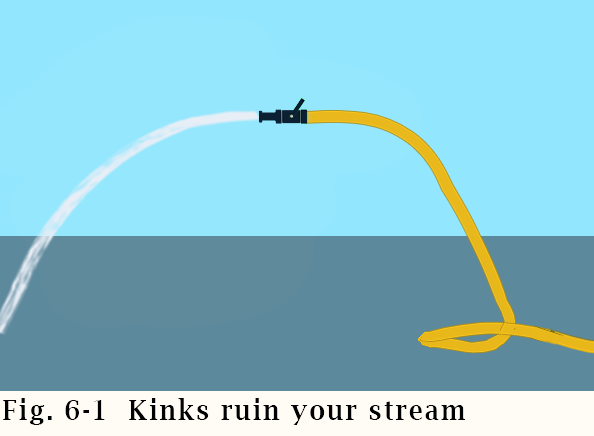
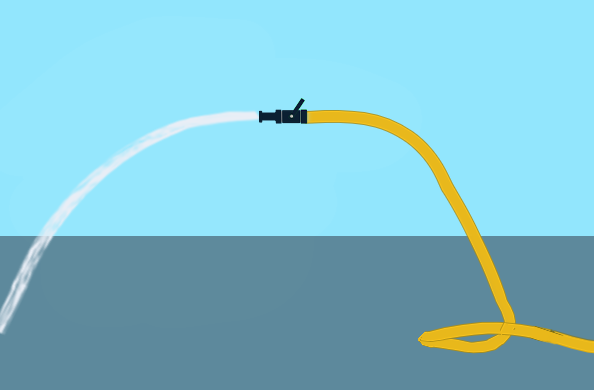
In nozzles, moved Kink.png from tooltip to always visible.  Started standardizing caption format outside of graphics.  Subtracted some ink from NozzleFlowRanges.png

Changed region(s): [[0.0, 0.2154, 1.0, 1.0]]

diff --git a/AutomaticNozzles.html b/AutomaticNozzles.html
@@ -47,7 +47,7 @@
   </h1>
 	
  <div id="DocSubtitle"><span style="font-size:9px;line-height:80%">By Bob Bourgeois</span><br>
-	<span style="font-size:.5rem;line-height:.2">1st draft 22Jul21&nbsp;&nbsp;&nbsp;&nbsp; Latest rev 10Apr23<br>Feedback/Qs roomfiresetc@gmail.com</span></div> 
+	<span style="font-size:.5rem;line-height:.2">1st draft 22Jul21&nbsp;&nbsp;&nbsp;&nbsp; Latest rev 5Jul23<br>Feedback/Qs roomfiresetc@gmail.com</span></div> 
 	
 	
 </header>
@@ -68,8 +68,10 @@
 	
 	&nbsp; Automatics are also the easiest to use (if you don’t overthink things).
 </p>
-	
-<p><img src="images/NozzleFlowRanges.png"  alt="" style="margin-left:inherit;width:50%;Padding-right:2em;Float:left"/></p>
+<p><figure style = "width:46%;margin-left:inherit;padding-left:9%;float:left;"><img src="images/NozzleFlowRanges.png"  alt="Graph of 8 nozzle ranges shows that fixed-flow nozzles have smaller operating ranges." style="width:100%;padding-right:03.2%;float:left;"/><figcaption style = "float:left;font-size:.8em"> Fig. 3.1&nbsp;  Eight nozzle operating ranges</figcaption></figure></p>	
+
+    
+
 	
 	
 	
@@ -77,15 +79,23 @@
 	
 <p>The bottom of a nozzle's range is the minimum flow needed to produce a 
 		<span class = "tooltip">usable stream.<span class="tooltipcontent"><span class="tooltiptext" >A usable stream is one that has enough reach to be useful but not too much reaction force.</span></span></span>
-	&nbsp;  If a kink reduces the flow below the minimum, the line may be 
+	&nbsp;  If a kink reduces the flow below the minimum, the line may be useless.
+</p>     
+    
+<p><figure style="margin-left:inherit;padding-left:2%;width:21%;Margin-top:.1em;Float:right"/><img src="images/Kink.png"  alt="Stream from a nozzle that is useless because of a kink in the hose" style="width:100%;Padding-right:1.6em;"><figcaption style = "font-size:.8em;">Fig. 3-2&nbsp;  Kinks ruin your stream</figcaption></figure></p>	
 	
-		<span class = "tooltip">useless.<span class="tooltipcontent"><span class="tooltipimage"><img src="images/Kink.png" width="245" height="180" alt="Kinks ruin your stream"/></span></span></span>
-	
-	&nbsp;  Your safety margin against kinks is the gpm difference between the bottom of the nozzle's range and your target flow.&nbsp;  Fixed-flow nozzles have much smaller margins.
+
+<p> Your safety margin against kinks is the gpm difference between the bottom of the nozzle's range and your target flow.&nbsp;  Fixed-flow nozzles have much smaller margins.
 </p>
-	
+
+    
 <p>Headroom at the top of the range means that on those rare occasions when you need more water or more reach, you simply flow more water.</p>	
+
+    
 	
+    <p></p>
+
+    
 <p>This confident flexibility can ease the GPM anxiety that causes many teams to always flow big water.&nbsp; Using 90-100 GPM to attack a 16' x 16' x 8' room gives you a generous safety margin.&nbsp; Double the room size and you still have a good margin.&nbsp; If you’re routinely flowing much more than 100 GPM for residential room fires, you might want to downthink.</p>
 
 <p>In addition to easing water supply needs (and water supply anxiety), a lower flow rate can cut FF exertion, cut air use, and help with nozzle placement.&nbsp; Many good stops have been made by nozzles held in awkward orientations (e.g. 

diff --git a/GPM.html b/GPM.html
@@ -76,7 +76,7 @@
 
 <p>The main gpm safety margins are for <strong>knockdown</strong> and <strong>flow reduction</strong>.&nbsp; You want to be okay if knocking the fire somehow requires more water than expected.&nbsp; You also want to be okay if a kink or some other mishap reduces your flow.</p>
 	
-<p><img src="images/Kink.png"  alt="Stream from a nozzle that is useless because of a kink in the hose" style="margin-left:inherit;width:28%;Padding-right:1.6em;Float:left"/></p>		
+<p><figure style="margin-left:inherit;padding-left:9%;margin-top:.1em;margin-right:1.5em; width:24%;float:left;"><img src="images/Kink.png"  alt="Stream from a nozzle that is useless because of a kink in the hose" style="width:100%;float:left;"/><figcaption style="font-size:.8em;">Fig. 6-1&nbsp;  Kinks ruin your stream</figcaption></figure></p>		
 	
 <p>The reference point for the flow-reduction margin (RP-kink) is the smallest flow that will provide a 
 			<span class = "tooltip">usable stream.<span class="tooltipcontent"><span class="tooltiptext" >A usable stream is one that has enough reach to be useful but not too much reaction force.</span></span></span>
@@ -192,7 +192,7 @@
 	
 </section>
 <section class="Wisdom">
-	<p>Our fear often enables the things we fear.</p>	
+	<p>Fear often enables the things we fear.</p>	
 	<p>Lots of jargon does not mean lots of understanding.&nbsp; More water does not mean more effective.</p>
 	
 </section>

diff --git a/FlameLength.html b/FlameLength.html
@@ -60,9 +60,9 @@
 	
 <p>Read this indication with smoke, wind, building layout,  and other clues.&nbsp; Look for patterns and changes.&nbsp; Ask questions.&nbsp; Where are the pockets of AF?&nbsp; Is it building up?&nbsp; Spreading?&nbsp; Can it be vented?&nbsp; Is the fire attack stopping the production of AF?</p>
 	
-<p><figure>
+<p><figure style = "margin-left:inherit;padding-left:3.1em">
 		<img src="images/FromWindow_.png"  alt="Length of flame from window, from roof, across ceiling." style="padding-left:3.2em;width:26%;"/><img src="images/FromRoof_.png"  alt="" style="padding-left:.2em;width:26%;"/><img src="images/AcrossCeiling.png"  alt="" style="padding-left:.2em;width:26%;"/>
-		<figcaption>&nbsp;&nbsp;&nbsp;&nbsp;&nbsp;&nbsp;&nbsp;&nbsp;&nbsp;&nbsp;&nbsp;&nbsp;&nbsp;Fig.4-1&nbsp;  Flame length</figcaption>
+		<figcaption style="margin-left:inherit;padding-left:3.9em;font-size:.8em">Fig.4-1&nbsp;  Flame length</figcaption>
 		</figure></p>	
 
 <p>We notice a flame's size when it blows out a window or through a roof hole, but sometimes it's extending across a ceiling or the underside of a roof deck.&nbsp; The <strong>length of these sideways flames</strong> can be critical to the course of the incident:&nbsp; it may be how far the fire can reach to hurt someone;&nbsp; it may be how fast the fire can spread;&nbsp; it may also be the reason that knockdown is not happening.</p>

diff --git a/index.html b/index.html
@@ -74,7 +74,7 @@ gases.</p>
 		
 		<li><figure>
 		<img src="images/F2.gif"  alt="Unstable, semi-stable, and stable progress." style="padding-left:1em;width:50%;"/>
-		<figcaption>&nbsp;&nbsp;&nbsp;&nbsp;Fig.1-1&nbsp;  Progress instability</figcaption>
+		<figcaption style="padding-left:1em;font-size:.8em;">Fig.1-1&nbsp;  Progress instability </figcaption> 
 		</figure></li>
 	
 		<li>The other key concept is that, once you start making semi-stable progress against a room fire, the required flow rate decreases rapidly.</li>
